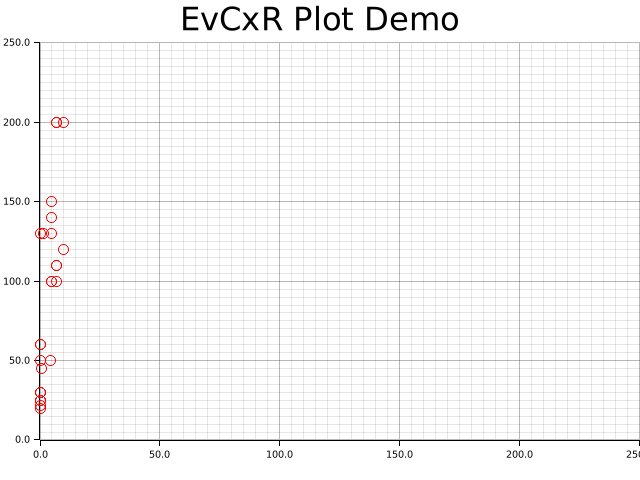
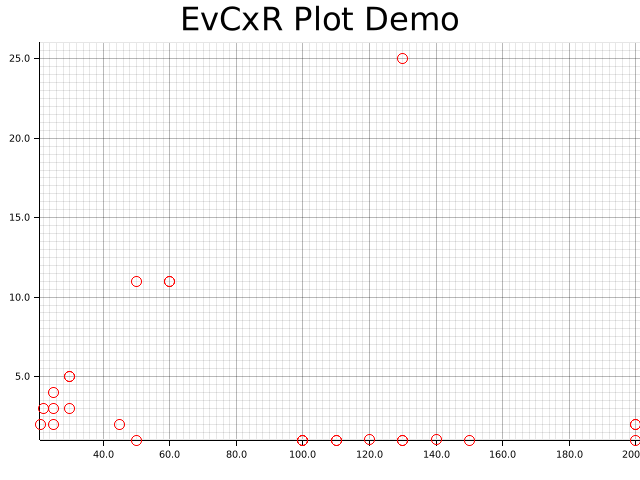
add dynamic plot lims

diff --git a/src/lib.rs b/src/lib.rs
@@ -42,11 +42,7 @@ pub fn df_summary(df: DataFrame) {
     println!("{:?}", df.describe(None));
 }
 
-pub fn plot_data(
-    df: &DataFrame,
-    x_col: &str,
-    y_col: &str,
-) {
+pub fn zip_data(df: &DataFrame, x_col: &str, y_col: &str) -> Vec<(f64, f64)> {
     // get x and y columns --> transform to f64 Vec
     let x = df.column(x_col).unwrap().cast(&DataType::Float64).unwrap();
     let x_vec: Vec<f64> = x.f64().unwrap().into_no_null_iter().collect();
@@ -54,6 +50,22 @@ pub fn plot_data(
     let y_vec: Vec<f64> = y.f64().unwrap().into_no_null_iter().collect();
     // Create (x,y) pairs
     let data: Vec<(f64, f64)> = x_vec.iter().zip(y_vec).map(|(x, y)| (*x, y)).collect();
+    data
+}
+
+pub fn get_lims(df: &DataFrame, col: &str) -> (f64, f64) {
+    let col = df.column(col).unwrap().cast(&DataType::Float64).unwrap();
+    let col_vec: Vec<f64> = col.f64().unwrap().into_no_null_iter().collect();
+    let min = col_vec.iter().min_by(|x, y| x.partial_cmp(y).unwrap()).unwrap();
+    let max = col_vec.iter().max_by(|x, y| x.partial_cmp(y).unwrap()).unwrap();
+    (*min, *max)
+}
+
+pub fn plot_data(data: Vec<(f64, f64)>, xlims: (f64, f64), ylims: (f64, f64)) {
+    let xmin = xlims.0 + 1f64;
+    let xmax = xlims.1 + 1f64;
+    let ymin = ylims.0 + 1f64;
+    let ymax = ylims.1 + 1f64;
     // Build plot
     let root = BitMapBackend::new("plots/scatter.png", (640, 480)).into_drawing_area();
     root.fill(&WHITE).unwrap();
@@ -61,7 +73,7 @@ pub fn plot_data(
         .set_label_area_size(LabelAreaPosition::Left, 40)
         .set_label_area_size(LabelAreaPosition::Bottom, 40)
         .caption("EvCxR Plot Demo", ("sans-serif", 40))
-        .build_cartesian_2d(0f64..250f64, 0f64..250f64)
+        .build_cartesian_2d(xmin..xmax, ymin..ymax)
         .unwrap();
 
     ctx.configure_mesh().draw().unwrap();
@@ -77,7 +89,7 @@ pub fn plot_data(
 // CI/CD test
 #[cfg(test)]
 mod tests {
-    use crate::{load_file, plot_data};
+    use crate::{load_file, zip_data, get_lims, plot_data};
     #[test]
     fn load_csv() {
         let path = "./data/sample.csv";
@@ -94,7 +106,14 @@ mod tests {
     #[test]
     fn test_plot() {
         let path = "./data/sample.csv";
-        let df = load_file(&path, true).unwrap();
-        plot_data(&df, "fats_g", "calories");
+        // load df
+        let df = load_file(path, true).unwrap();
+        // get data
+        let data = zip_data(&df, "calories", "fats_g");
+        // get x and y limits
+        let xlims = get_lims(&df, "calories");
+        let ylims = get_lims(&df, "fats_g");
+        // plot data
+        plot_data(data, xlims, ylims);
     }
 }

diff --git a/src/main.rs b/src/main.rs
@@ -55,7 +55,15 @@ fn main() {
         }) => {
             let df = rusty_ds::load_file(&path, headers);
             match df {
-                Ok(df) => rusty_ds::plot_data(&df, &x, &y),
+                Ok(df) => {
+                    // get data
+                    let data = rusty_ds::zip_data(&df, &x,&y);
+                    // get x and y limits
+                    let xlims = rusty_ds::get_lims(&df, &x);
+                    let ylims = rusty_ds::get_lims(&df, &y);
+                    // plot data
+                    rusty_ds::plot_data(data, xlims, ylims);
+                },
                 Err(e) => println!("Error: {}", e),
             }
         }

diff --git a/README.md b/README.md
@@ -1,5 +1,7 @@
 # CI/CD Data Science with Rust
 
+CLI and Notebook EDA using polars/plotters/evcxr + CI/CD Distroless Deployment
+
 [![CI/CD Pipeline](https://github.com/athletedecoded/rusty-ds/actions/workflows/CICD.yml/badge.svg)](https://github.com/athletedecoded/rusty-ds/actions/workflows/CICD.yml)
 
 ## Setup
@@ -21,17 +23,19 @@ make toolchain
 2. Run All Cells
 
 
-## Rust CLI EDA Tool (.csv, .json files supported)
+## CLI EDA Tool
+
+*Supported data formats: .csv, .json files*
 
 **Summary**
 ```
 # If file includes headers
 cargo run summary --path </path/to/data> --headers
-# ex. cargo run plot --path ./data/sample.csv --headers
+# ex. cargo run summary --path ./data/sample.csv --headers
 
 # If file doesn't have headers
 cargo run summary --path </path/to/data>
-# ex. cargo run plot --path ./data/sample.json
+# ex. cargo run summary --path ./data/sample.json
 ```
 
 **Plot**
@@ -71,8 +75,8 @@ On git push/pull request the CI/CD flow is triggered using Github Actions:
 7. Push image to [Github Container Registry](https://github.com/athletedecoded?tab=packages)
 
 ## ToDos
-- [] Add error handling for column names not in df
-- [] Add dynamic plot bounds
+- [ ] Add error handling for column name DNE
+- [x] Add dynamic plot bounds
 
 ## Resources
 * [EvCxR docs](https://github.com/evcxr/evcxr/tree/main/evcxr_jupyter)
